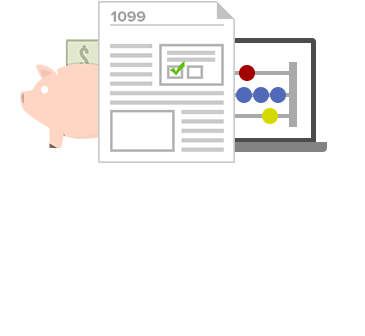
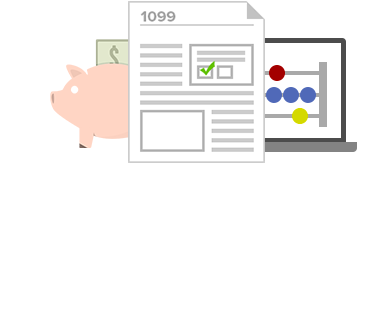
responsive tweaks on hp services ection

Changed region(s): [[0.4219, 0.0, 0.9945, 0.506], [0.0301, 0.0, 0.4822, 0.506]]

diff --git a/_sass/_home.scss b/_sass/_home.scss
@@ -177,7 +177,7 @@ body { // need to namespace this
       display: inline-block;
       vertical-align:top;
       margin-right:86px;
-      @media(max-width: 660px) {
+      @media(max-width: 691px) {
         display:none;
       }
     }
@@ -186,17 +186,20 @@ body { // need to namespace this
       display: inline-block;
       vertical-align:top;
       width:300px;
-      @media(max-width: 660px) {
+      @media(max-width: 691px) {
         text-align:center;
         margin-bottom:60px;
       }
     }
   }
   .img-right {
+    > img {
+      margin-right:16px;
+    }
     > div {
       text-align:right;
-      margin-right:86px;
-      @media(max-width: 660px) {
+      margin-right:70px;
+      @media(max-width: 691px) {
         text-align:center;
         margin-right:0px;
       }
